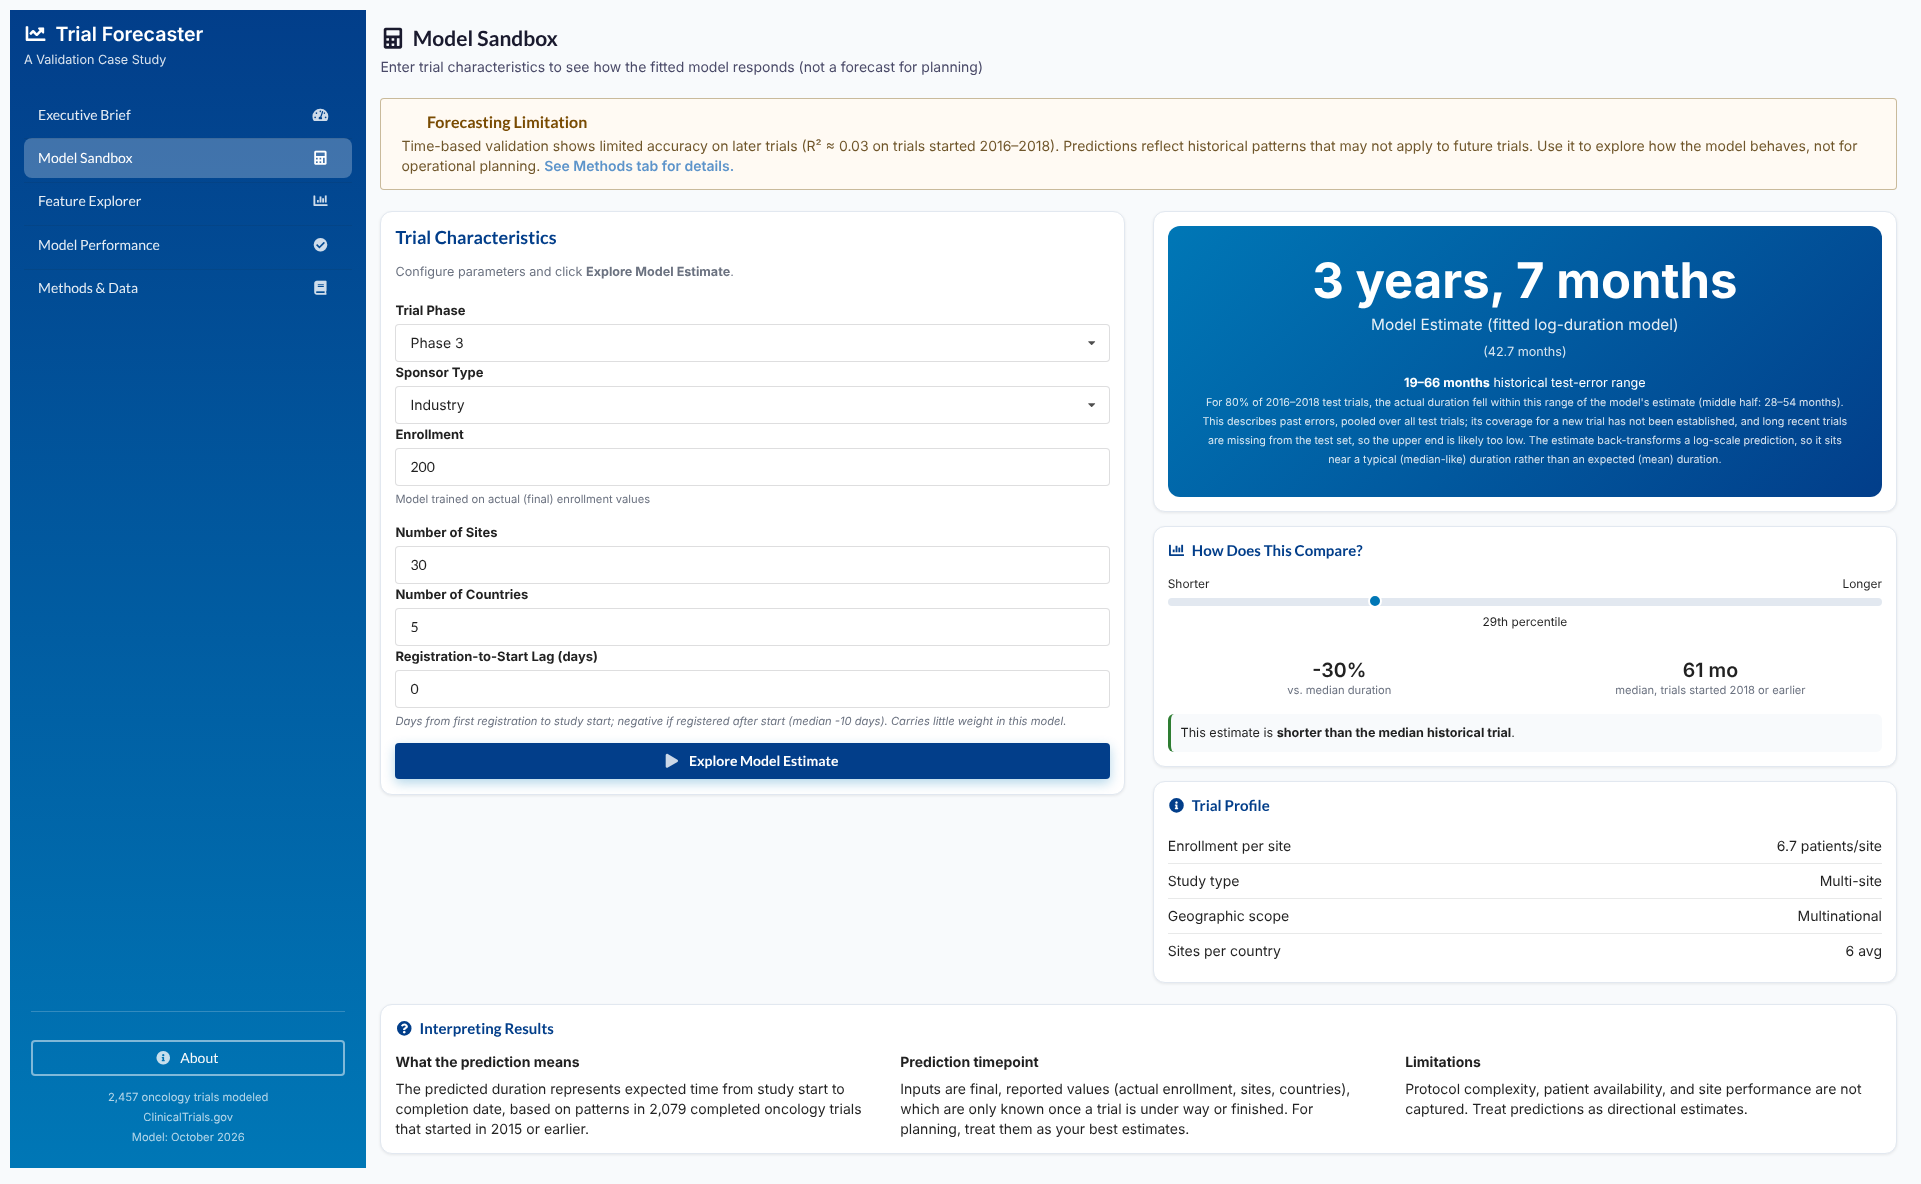
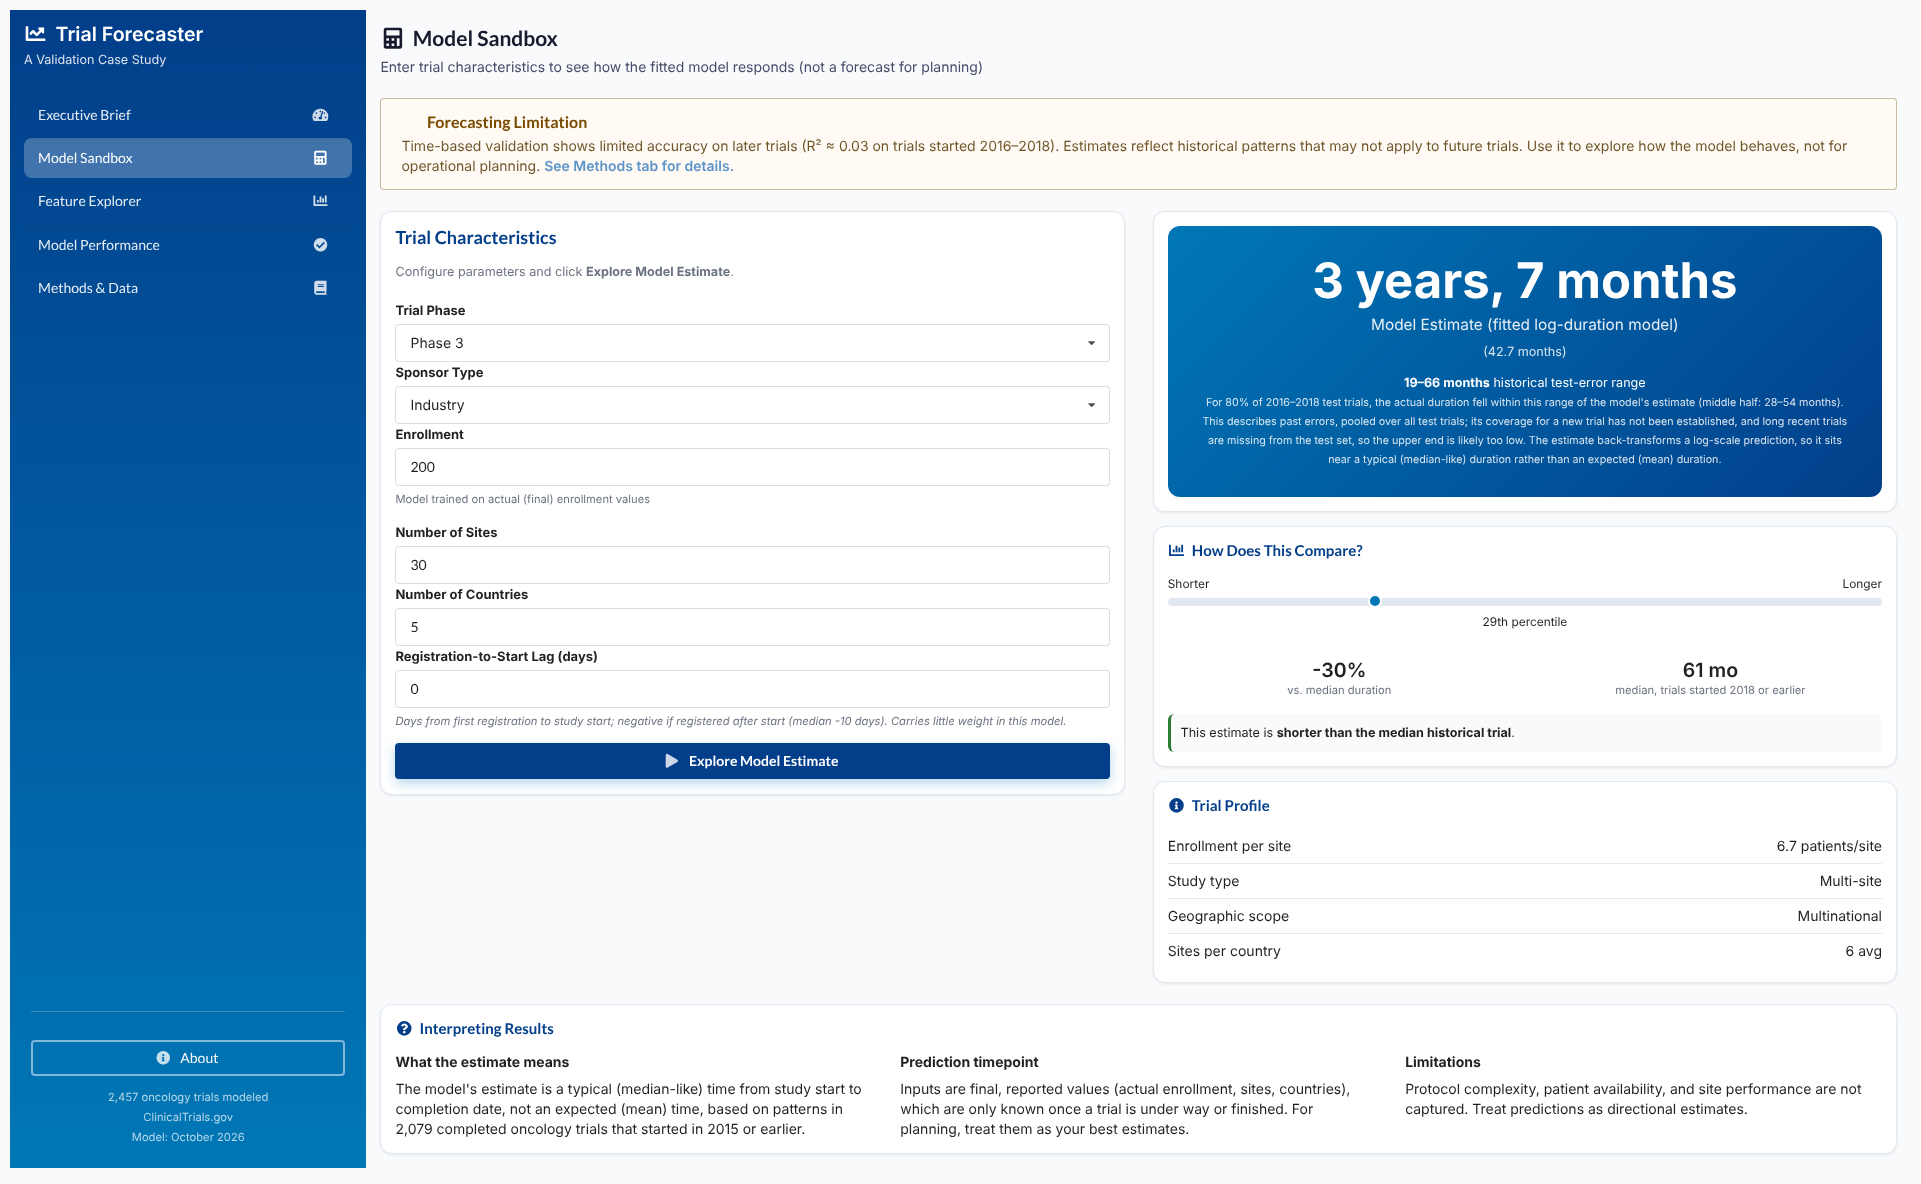
Second review: phase-and-sponsor baseline, wording, setup
- Registration-to-start lag is not a pre-start input for 55% of trials
  (1,353 of 2,457 registered after they started). scripts/08 now uses
  phase and sponsor as the baseline (lag kept as a labeled
  reduced-feature row); scripts/11 survival models drop lag
- Results: phase+sponsor R² 0.09 random / -0.09 time-based (was 0.10 /
  -0.07 with lag); survival: censored model 76 vs actual 73 months,
  completed-only 60, concordance 0.57
- Regression check 6 no longer claims availability it did not test; it
  reports the lag count and checks the baseline formulas
- Executive Brief: "illustrates how sensitive the comparison is to the
  test-outcome window"; R² as share of log-duration variance
- Banner "Predictions" -> "Estimates"; vip added to 00_setup.R; README
  points to the setup script for the full dependency list

Claude-Session: https://claude.ai/code/session_01KqNmoBVMfpgYt9CoMMYhV9

Changed region(s): [[0.2186, 0.875, 0.4373, 0.9688], [0.5622, 0.0938, 0.937, 0.125]]

diff --git a/README.md b/README.md
@@ -53,20 +53,20 @@ Rules a planner could apply by hand, fitted on the same training trials and scor
 | Phase median | −0.24 | 19.8 months | 0.00 | 23.9 months |
 | Constant (training mean) | −0.14 | 18.6 months | −0.01 | 23.4 months |
 
-The model beats them by a few months of median error, so the registry fields carry some signal. Much of that margin uses final enrollment, sites and countries, known only in hindsight: with pre-start inputs only, time-based R² is −0.07 and the median error is 18.3 months, about the same as the constant.
+The model beats them by a few months of median error, so the registry fields carry some signal. Much of that margin uses final enrollment, sites and countries, known only in hindsight: with phase and sponsor only, time-based R² is −0.09 and the median error is 18.3 months, about the same as the constant.
 
 This is not "model failure"—it shows why validation must match the intended decision context.
 
 ### Censoring-aware check (October 2026)
 
-The published model keeps completed trials only. A fresh pull of every Phase 2/3 cancer treatment trial started 1990–2018, of any status (`scripts/10_download_all_statuses.R`), lets unfinished trials enter as censored observations (`scripts/11_survival_model.R`). With pre-start features only, trained on 1990–2015 starts and tested on 2016–2018 starts:
+The published model keeps completed trials only. A fresh pull of every Phase 2/3 cancer treatment trial started 1990–2018, of any status (`scripts/10_download_all_statuses.R`), lets unfinished trials enter as censored observations (`scripts/11_survival_model.R`). With phase and sponsor only, trained on 1990–2015 starts and tested on 2016–2018 starts:
 
 | Model | Predicted median (months) | Actual median, Kaplan–Meier | Concordance |
 |----|---:|---:|---:|
-| Weibull survival model, censored data | 73 | 73 | 0.56 |
-| Same features, completed trials only | 57 | 73 | 0.56 |
+| Weibull survival model, censored data | 76 | 73 | 0.57 |
+| Same features, completed trials only | 60 | 73 | 0.57 |
 
-Handling censoring removes a 16-month downward bias in the overall median, but that is aggregate agreement, not individual calibration: the ranking signal stays weak (concordance 0.56), so these registry features do not say *which* trials will run long. Excluded: trials with unknown status (3,677), withdrawn or never started (887), and finished trials with no end date (1,123).
+Handling censoring removes most of a 13-month downward bias in the overall median (the censored model is about 2 months high), but that is aggregate agreement, not individual calibration: the ranking signal stays weak (concordance 0.57), so these registry features do not say *which* trials will run long. Excluded: trials with unknown status (3,677), withdrawn or never started (887), and finished trials with no end date (1,123).
 
 **How terminated trials are treated.** The table above censors terminated trials at their stop date, which assumes termination says nothing about when a trial would have completed. Two alternatives (`scripts/11_survival_model.R`, section 3):
 
@@ -202,7 +202,7 @@ All four are within one standard error of the best on RMSE, so they are effectiv
 
 -   Oncology cohort defined via keyword-based registry fields (imperfect). About 8% of modeled trials (203 of 2,457) list no cancer term in their conditions field. Refitting without them changes test R² from 0.030 to 0.018 and median absolute error from 15.2 to 14.9 months; conclusions are unchanged (`scripts/05_sensitivity_oncology_filter.R`).
 -   Registry fields are self-reported and updated over time
--   Inputs (actual enrollment, sites, countries) are final values, known only once a trial is under way or finished. With only what is known at study start (phase, sponsor, registration-to-start lag), R² falls from 0.24 to 0.10 on a random split and from 0.03 to −0.07 on later trials (`scripts/08_prestart_features.R`): most of the signal comes from hindsight inputs
+-   Inputs (actual enrollment, sites, countries) are final values, known only once a trial is under way or finished. With phase and sponsor only, R² falls from 0.24 to 0.09 on a random split and from 0.03 to −0.09 on later trials (`scripts/08_prestart_features.R`): most of the signal comes from hindsight inputs. Registration-to-start lag is also a hindsight input for most trials: 55% of modeled trials (1,353 of 2,457) were first registered after they started, so it is not used in the reduced-feature baseline or the survival check (adding it changes time-based R² only from −0.09 to −0.07)
 -   Weak signal for later trials (time-based R² ≈ 0.03), measured on retrospectively observed records rather than a historical backtest
 -   The sandbox's range is pooled from past test errors; its coverage for a new trial is not established, and ranges beyond 180 months are shown as "180+"
 -   Each Phase 2/3 trial is counted once; the API pull was split by phase, and duplicates across queries are removed
@@ -233,7 +233,7 @@ clinical-trial-forecaster/
 │   │   ├── split_comparison.csv            # random vs time-based split (script 06)
 │   │   ├── sensitivity_oncology_filter.csv # cohort sensitivity check (script 05)
 │   │   ├── date_parsing_audit.csv          # counts behind the correction note (script 07)
-│   │   ├── prestart_comparison.csv         # pre-start-only features (script 08)
+│   │   ├── prestart_comparison.csv         # phase-and-sponsor baseline vs full model (script 08)
 │   │   ├── sampling_order_check.csv        # API return-order check (script 09)
 │   │   ├── survival_*.csv                  # censoring-aware check + termination sensitivity (script 11)
 │   │   └── benchmark_comparison.csv        # constant and phase/sponsor median benchmarks (script 12)
@@ -264,7 +264,7 @@ clinical-trial-forecaster/
 
 ## Reproduce
 
-Requires R 4.3+ and the packages in `app/DESCRIPTION` plus `here`, `rsample`, `survival` and `glmnet` for the scripts (installed from CRAN; the project does not use renv). From the project root:
+Requires R 4.3+. `Rscript scripts/00_setup.R` installs every package the app and the rebuild scripts load (including tidymodels, glmnet, ranger, xgboost, vip, janitor, tictoc and survival); the project does not use renv, so versions are not pinned. From the project root:
 
 1.  `Rscript scripts/run_all.R` rebuilds every artifact in `app/models/` from the cached January 2026 snapshot (model tuning takes several minutes), then runs the regression checks
 2.  `Rscript scripts/13_regression_checks.R` on its own checks the rebuilt data: month-only dates parse to the first of the month, one row per trial, dates and durations agree, split boundaries and sizes, and the model's predictors
